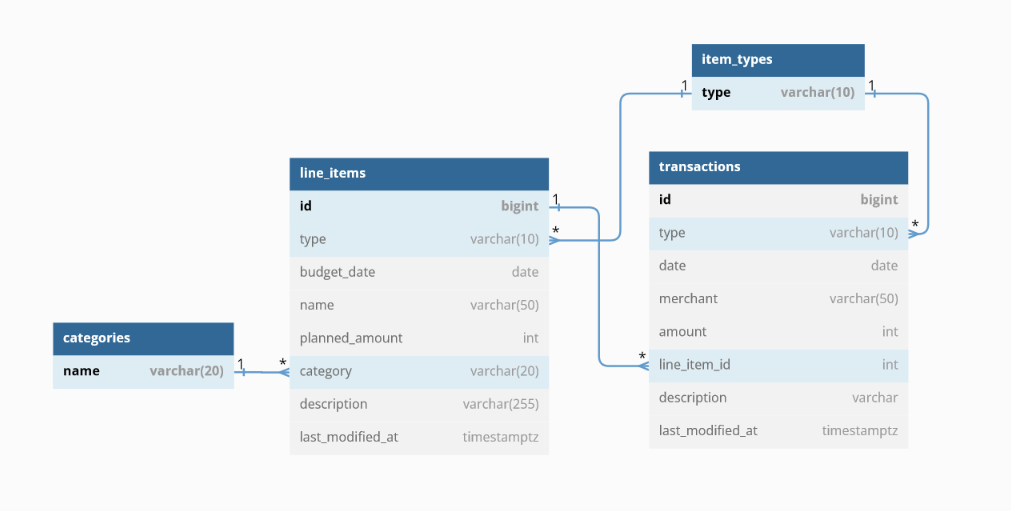
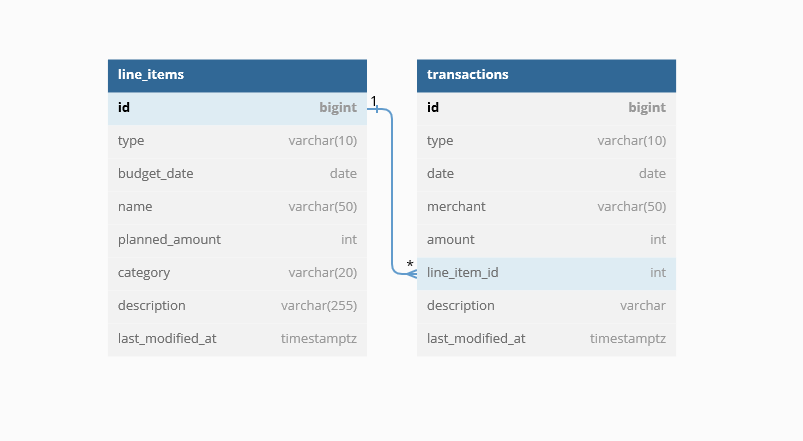
Simplify Database Schema
I removed the two domain tables in favor of just using enums in code. One thing I did not want to lose was case safety when reading/writing to those columns. Luckily hibernate has @ColumnTransformer for that. So when reading/writing from the DB the @ColumnTransformer tells hibernate to uppercase the values. This means even if the record has 'income' in the database it will correctly serialize in to an ItemType enum.

diff --git a/src/main/java/me/seantwiehaus/zbbp/dao/entity/LineItemEntity.java b/src/main/java/me/seantwiehaus/zbbp/dao/entity/LineItemEntity.java
@@ -7,8 +7,10 @@ import lombok.ToString;
 import me.seantwiehaus.zbbp.domain.BudgetMonth;
 import me.seantwiehaus.zbbp.domain.Category;
 import me.seantwiehaus.zbbp.domain.LineItem;
+import org.hibernate.annotations.ColumnTransformer;
 
 import javax.persistence.*;
+import javax.validation.constraints.NotBlank;
 import java.time.LocalDate;
 import java.util.ArrayList;
 import java.util.List;
@@ -34,10 +36,13 @@ public class LineItemEntity extends BaseEntity {
    */
   @Column(name = "budget_date", nullable = false)
   private LocalDate budgetDate;
+  @NotBlank
+  @Column(name = "name", nullable = false)
   private String name;
   @Column(name = "planned_amount", nullable = false)
   private Integer plannedAmount;
   @Column(name = "category", nullable = false)
+  @ColumnTransformer(read = "upper(category)", write = "upper(?)")
   @Enumerated(EnumType.STRING)
   private Category category;
   @Column(name = "description")

diff --git a/src/main/java/me/seantwiehaus/zbbp/dao/entity/BaseEntity.java b/src/main/java/me/seantwiehaus/zbbp/dao/entity/BaseEntity.java
@@ -4,6 +4,7 @@ import lombok.Getter;
 import lombok.NoArgsConstructor;
 import lombok.Setter;
 import me.seantwiehaus.zbbp.domain.ItemType;
+import org.hibernate.annotations.ColumnTransformer;
 import org.springframework.data.annotation.LastModifiedDate;
 import org.springframework.data.jpa.domain.support.AuditingEntityListener;
 
@@ -17,6 +18,7 @@ import java.time.Instant;
 @EntityListeners(AuditingEntityListener.class)
 public class BaseEntity {
   @Column(name = "type", nullable = false)
+  @ColumnTransformer(read = "upper(type)", write = "upper(?)")
   @Enumerated(EnumType.STRING)
   protected ItemType type = ItemType.EXPENSE;
   @Column(name = "last_modified_at", nullable = false)
